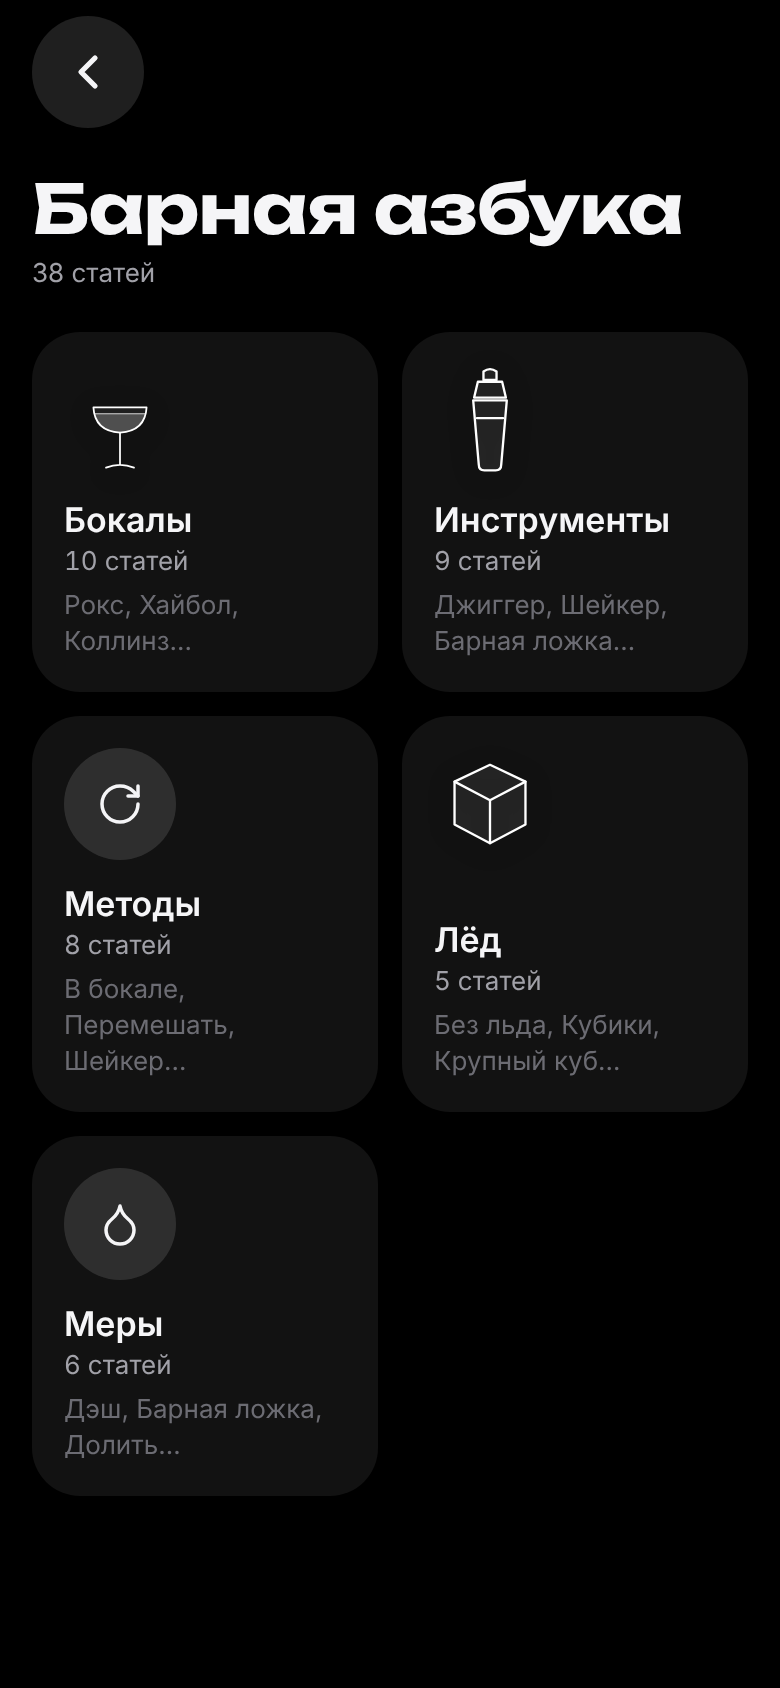
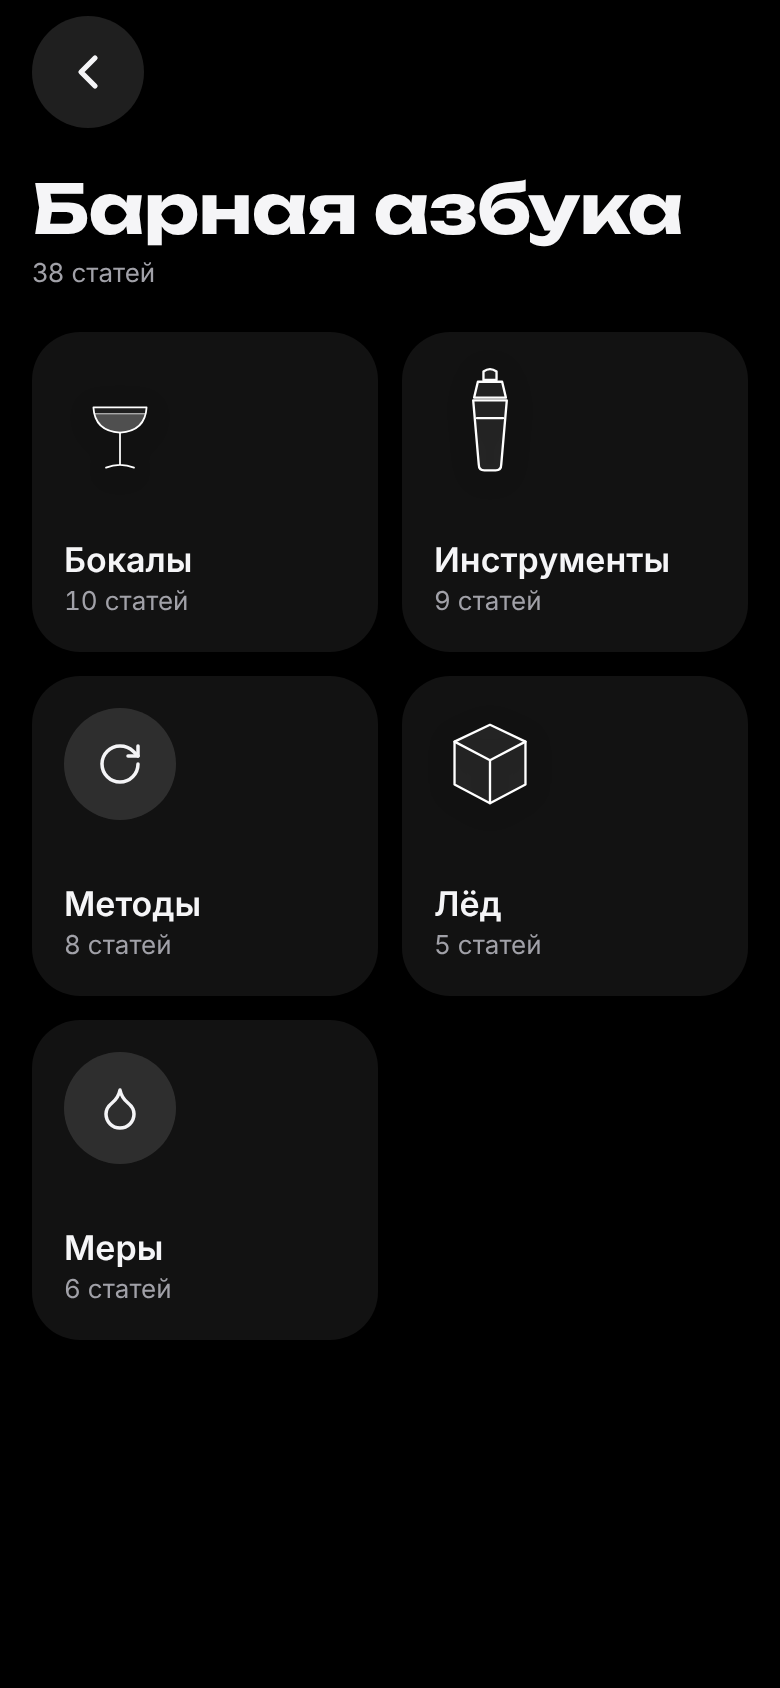
Без перечисления содержимого: карточки разделов бара и плитки азбуки — заголовок и число
Claude-Session: https://claude.ai/code/session_01CTSLijoM8Di1TL7d1o52Nz

diff --git a/src/pages/DesignSystemPage.tsx b/src/pages/DesignSystemPage.tsx
@@ -130,10 +130,10 @@ function GuideShowcase() {
   const t = (kind: Parameters<typeof getTerm>[0], id: string) => getTerm(kind, id)!;
   return (
     <div className="flex flex-col gap-6">
-      <State label="GuideTile · главная азбуки — с подсказкой" inset>
+      <State label="GuideTile · главная азбуки" inset>
         <div className="grid grid-cols-2 gap-3 px-4">
-          <GuideTile topic="glass" label="Бокалы" count="10 статей" hint="Рокс, Хайбол, Коллинз…" to="/guide" />
-          <GuideTile topic="tool" label="Инструменты" count="9 статей" hint="Джиггер, Шейкер, Барная ложка…" to="/guide" pressed />
+          <GuideTile topic="glass" label="Бокалы" count="10 статей" to="/guide" />
+          <GuideTile topic="tool" label="Инструменты" count="9 статей" to="/guide" pressed />
         </div>
       </State>
       <State label="GuideTile · лента в «Моём баре» · default / pressed">
@@ -946,9 +946,9 @@ export function DesignSystemPage() {
           </State>
           <State label="BarCategoryCard · заполнен / пуст / pressed" inset>
             <div className="flex flex-col gap-3 px-4">
-              <BarCategoryCard title="Алкоголь" meta="4 позиции" preview="Джин, Водка, Laphroaig 10 и ещё 1" to="/bar/alcohol" placeholder="Например: джин, ром, вермут" />
-              <BarCategoryCard title="Миксеры и прочее" meta="Пока пусто" to="/bar/mixers" placeholder="Например: лайм, сироп, тоник" />
-              <BarCategoryCard title="Миксеры и прочее" meta="6 позиций" preview="Лайм, Лимон, Мята и ещё 3" to="/bar/mixers" placeholder="Например: лайм, сироп, тоник" pressed />
+              <BarCategoryCard title="Алкоголь" meta="4 позиции" to="/bar/alcohol" />
+              <BarCategoryCard title="Миксеры и прочее" meta="Пока пусто" to="/bar/mixers" />
+              <BarCategoryCard title="Миксеры и прочее" meta="6 позиций" to="/bar/mixers" pressed />
             </div>
           </State>
           <State label="TypeNav · чипсы-якоря со счётчиком (активный) · тип со счётчиком без «+»" inset>
@@ -1068,7 +1068,7 @@ export function DesignSystemPage() {
         </div>
       </Section>
 
-      <Section id="guide" title="Барная азбука" note="Лента тем в «Моём баре» (GuideTile 160 в CardRail) ведёт на страницу темы /guide/<тема>; главная азбуки /guide — плитки тем сеткой 2 колонки с подсказкой. На странице темы бокалы — сеткой силуэтов (GlassGuideTile), остальное строками [Noom] (GuideRow: название, что это, картинка 56 справа, «· есть дома»). Картинки: бокал — GlassIllustration, инструмент и лёд — ToolIllustration в том же линейном стиле, метод и мера — иконка на круге. Статья — шторка TermSheet [Blue Apron]; плитки «Метод / Бокал / Лёд» рецепта с ⓘ открывают её же.">
+      <Section id="guide" title="Барная азбука" note="Лента тем в «Моём баре» (GuideTile 160 в CardRail) ведёт на страницу темы /guide/<тема>; главная азбуки /guide — плитки тем сеткой 2 колонки (без перечисления содержимого). На странице темы бокалы — сеткой силуэтов (GlassGuideTile), остальное строками [Noom] (GuideRow: название, что это, картинка 56 справа, «· есть дома»). Картинки: бокал — GlassIllustration, инструмент и лёд — ToolIllustration в том же линейном стиле, метод и мера — иконка на круге. Статья — шторка TermSheet [Blue Apron]; плитки «Метод / Бокал / Лёд» рецепта с ⓘ открывают её же.">
         <GuideShowcase />
       </Section>
 

diff --git a/src/pages/BarPage.tsx b/src/pages/BarPage.tsx
@@ -21,11 +21,7 @@ import { BarSheets, useBarNav, useBarRows, type BarRow } from '../components/Bar
 export const positionsLabel = (n: number) => `${n} ${plural(n, ['позиция', 'позиции', 'позиций'])}`;
 
 /** «4 позиции» и превью «Джин, Водка, Laphroaig 10 и ещё 1» для карточки раздела */
-function sectionSummary(rows: BarRow[]) {
-  const names = rows.map((r) => r.title);
-  const preview = names.length > 3 ? `${names.slice(0, 3).join(', ')} и ещё ${names.length - 3}` : names.join(', ');
-  return { meta: rows.length ? positionsLabel(rows.length) : 'Пока пусто', preview };
-}
+const sectionMeta = (rows: BarRow[]) => (rows.length ? positionsLabel(rows.length) : 'Пока пусто');
 
 /** «Мой бар» v2: итог + два раздела-карточки [WHOOP, GitHub]; списки — на страницах разделов */
 export function BarPage() {
@@ -87,17 +83,7 @@ export function BarPage() {
 
       <div className={`${empty ? '' : 'mt-3'} flex flex-col gap-3 px-4`}>
         {SECTIONS.map((s) => {
-          const { meta, preview } = sectionSummary(rows.filter((r) => r.section === s.id));
-          return (
-            <BarCategoryCard
-              key={s.id}
-              title={s.label}
-              meta={meta}
-              preview={preview}
-              placeholder={s.placeholder}
-              to={`/bar/${s.id}`}
-            />
-          );
+          return <BarCategoryCard key={s.id} title={s.label} meta={sectionMeta(rows.filter((r) => r.section === s.id))} to={`/bar/${s.id}`} />;
         })}
       </div>
 

diff --git a/src/components/ui/GuideParts.tsx b/src/components/ui/GuideParts.tsx
@@ -69,17 +69,16 @@ const TOPIC_ART: Record<TermKind, Pick<Term, 'kind' | 'id'>> = {
 };
 
 /**
- * Плитка темы: картинка, название, число статей; hint — первые статьи темы («Рокс, Хайбол, Коллинз…»).
- * В ленте «Моего бара» — 160 высотой без подсказки, на главной азбуки — в сетке 2 колонки, с подсказкой.
+ * Плитка темы: картинка, название, число статей — без перечисления содержимого.
+ * В ленте «Моего бара» и на главной азбуки (сетка 2 колонки) — одна и та же.
  */
-export function GuideTile({ topic, label, count, to, hint, pressed }: { topic: TermKind; label: string; count: string; to: string; hint?: string; pressed?: boolean }) {
+export function GuideTile({ topic, label, count, to, pressed }: { topic: TermKind; label: string; count: string; to: string; pressed?: boolean }) {
   return (
     <Link to={to} viewTransition data-pressed={pressed || undefined} className="pressable-scale flex h-full min-h-40 flex-col justify-between gap-3 rounded-tile bg-tile p-4">
       <TermArt term={TOPIC_ART[topic]} />
       <span>
         <span className="block text-headline text-fg">{label}</span>
         <span className="block text-footnote text-fg-2 tabular-nums">{count}</span>
-        {hint && <span className="mt-1 line-clamp-2 block text-footnote text-fg-3">{hint}</span>}
       </span>
     </Link>
   );

diff --git a/src/components/ui/BarRows.tsx b/src/components/ui/BarRows.tsx
@@ -46,18 +46,12 @@ export function BarItemRow({
 export function BarCategoryCard({
   title,
   meta,
-  preview,
-  placeholder,
   to,
   pressed,
 }: {
   title: string;
-  /** «4 позиции» / «Пока пусто» */
+  /** «4 позиции» / «Пока пусто» — содержимое не перечисляем: заголовка и числа достаточно */
   meta: string;
-  /** «Джин, Водка, Laphroaig 10 и ещё 1»; пусто — placeholder */
-  preview?: string;
-  /** пустой раздел: «Например: джин, ром, вермут» */
-  placeholder: string;
   to: string;
   pressed?: boolean;
 }) {
@@ -66,7 +60,6 @@ export function BarCategoryCard({
       <span className="min-w-0 flex-1">
         <span className="block font-display text-section text-fg">{title}</span>
         <span className="mt-1 block text-footnote text-fg-2">{meta}</span>
-        <span className={cn('mt-3 line-clamp-2 block text-subhead', preview ? 'text-fg' : 'text-fg-2')}>{preview || placeholder}</span>
       </span>
       <ChevronRight className="size-6 shrink-0 text-fg-2" aria-hidden />
     </Link>

diff --git a/src/lib/inventory.ts b/src/lib/inventory.ts
@@ -88,9 +88,9 @@ export const SUBS: Sub[] = [
   { id: 'tools', section: 'mixers', label: 'Инструменты', addLabel: 'инструмент' },
 ];
 
-export const SECTIONS: { id: SectionKey; label: string; addLabel: string; placeholder: string }[] = [
-  { id: 'alcohol', label: 'Алкоголь', addLabel: 'алкоголь', placeholder: 'Например: джин, ром, вермут' },
-  { id: 'mixers', label: 'Миксеры и прочее', addLabel: 'миксеры', placeholder: 'Например: лайм, сироп, тоник' },
+export const SECTIONS: { id: SectionKey; label: string; addLabel: string }[] = [
+  { id: 'alcohol', label: 'Алкоголь', addLabel: 'алкоголь' },
+  { id: 'mixers', label: 'Миксеры и прочее', addLabel: 'миксеры' },
 ];
 
 export function isSectionKey(v: string | undefined): v is SectionKey {

diff --git a/src/pages/GuidePage.tsx b/src/pages/GuidePage.tsx
@@ -49,7 +49,6 @@ export function GuidePage() {
                 topic={t.id}
                 label={t.label}
                 count={articlesLabel(items.length)}
-                hint={`${items.slice(0, 3).map((x) => x.name).join(', ')}…`}
                 to={`/guide/${t.id}`}
               />
             </li>

diff --git a/docs/previews/README.md b/docs/previews/README.md
@@ -359,3 +359,6 @@ Android — shared axis X, «назад» как предиктивный жес
 Вместо одной длинной страницы с якорями — главная `/guide` с плитками тем (название, число статей, первые статьи)
 и отдельная страница на каждую тему `/guide/<тема>`. Плитки ленты в «Моём баре» ведут сразу на страницу темы,
 «Все» — на главную азбуки. Статья — по-прежнему шторка.
+
+**23b:** без перечисления содержимого — карточки «Алкоголь / Миксеры и прочее» показывают только заголовок и число
+(«Пока пусто» для пустых), плитки тем азбуки — название и число статей. ![](step23-bar-sections.png)
